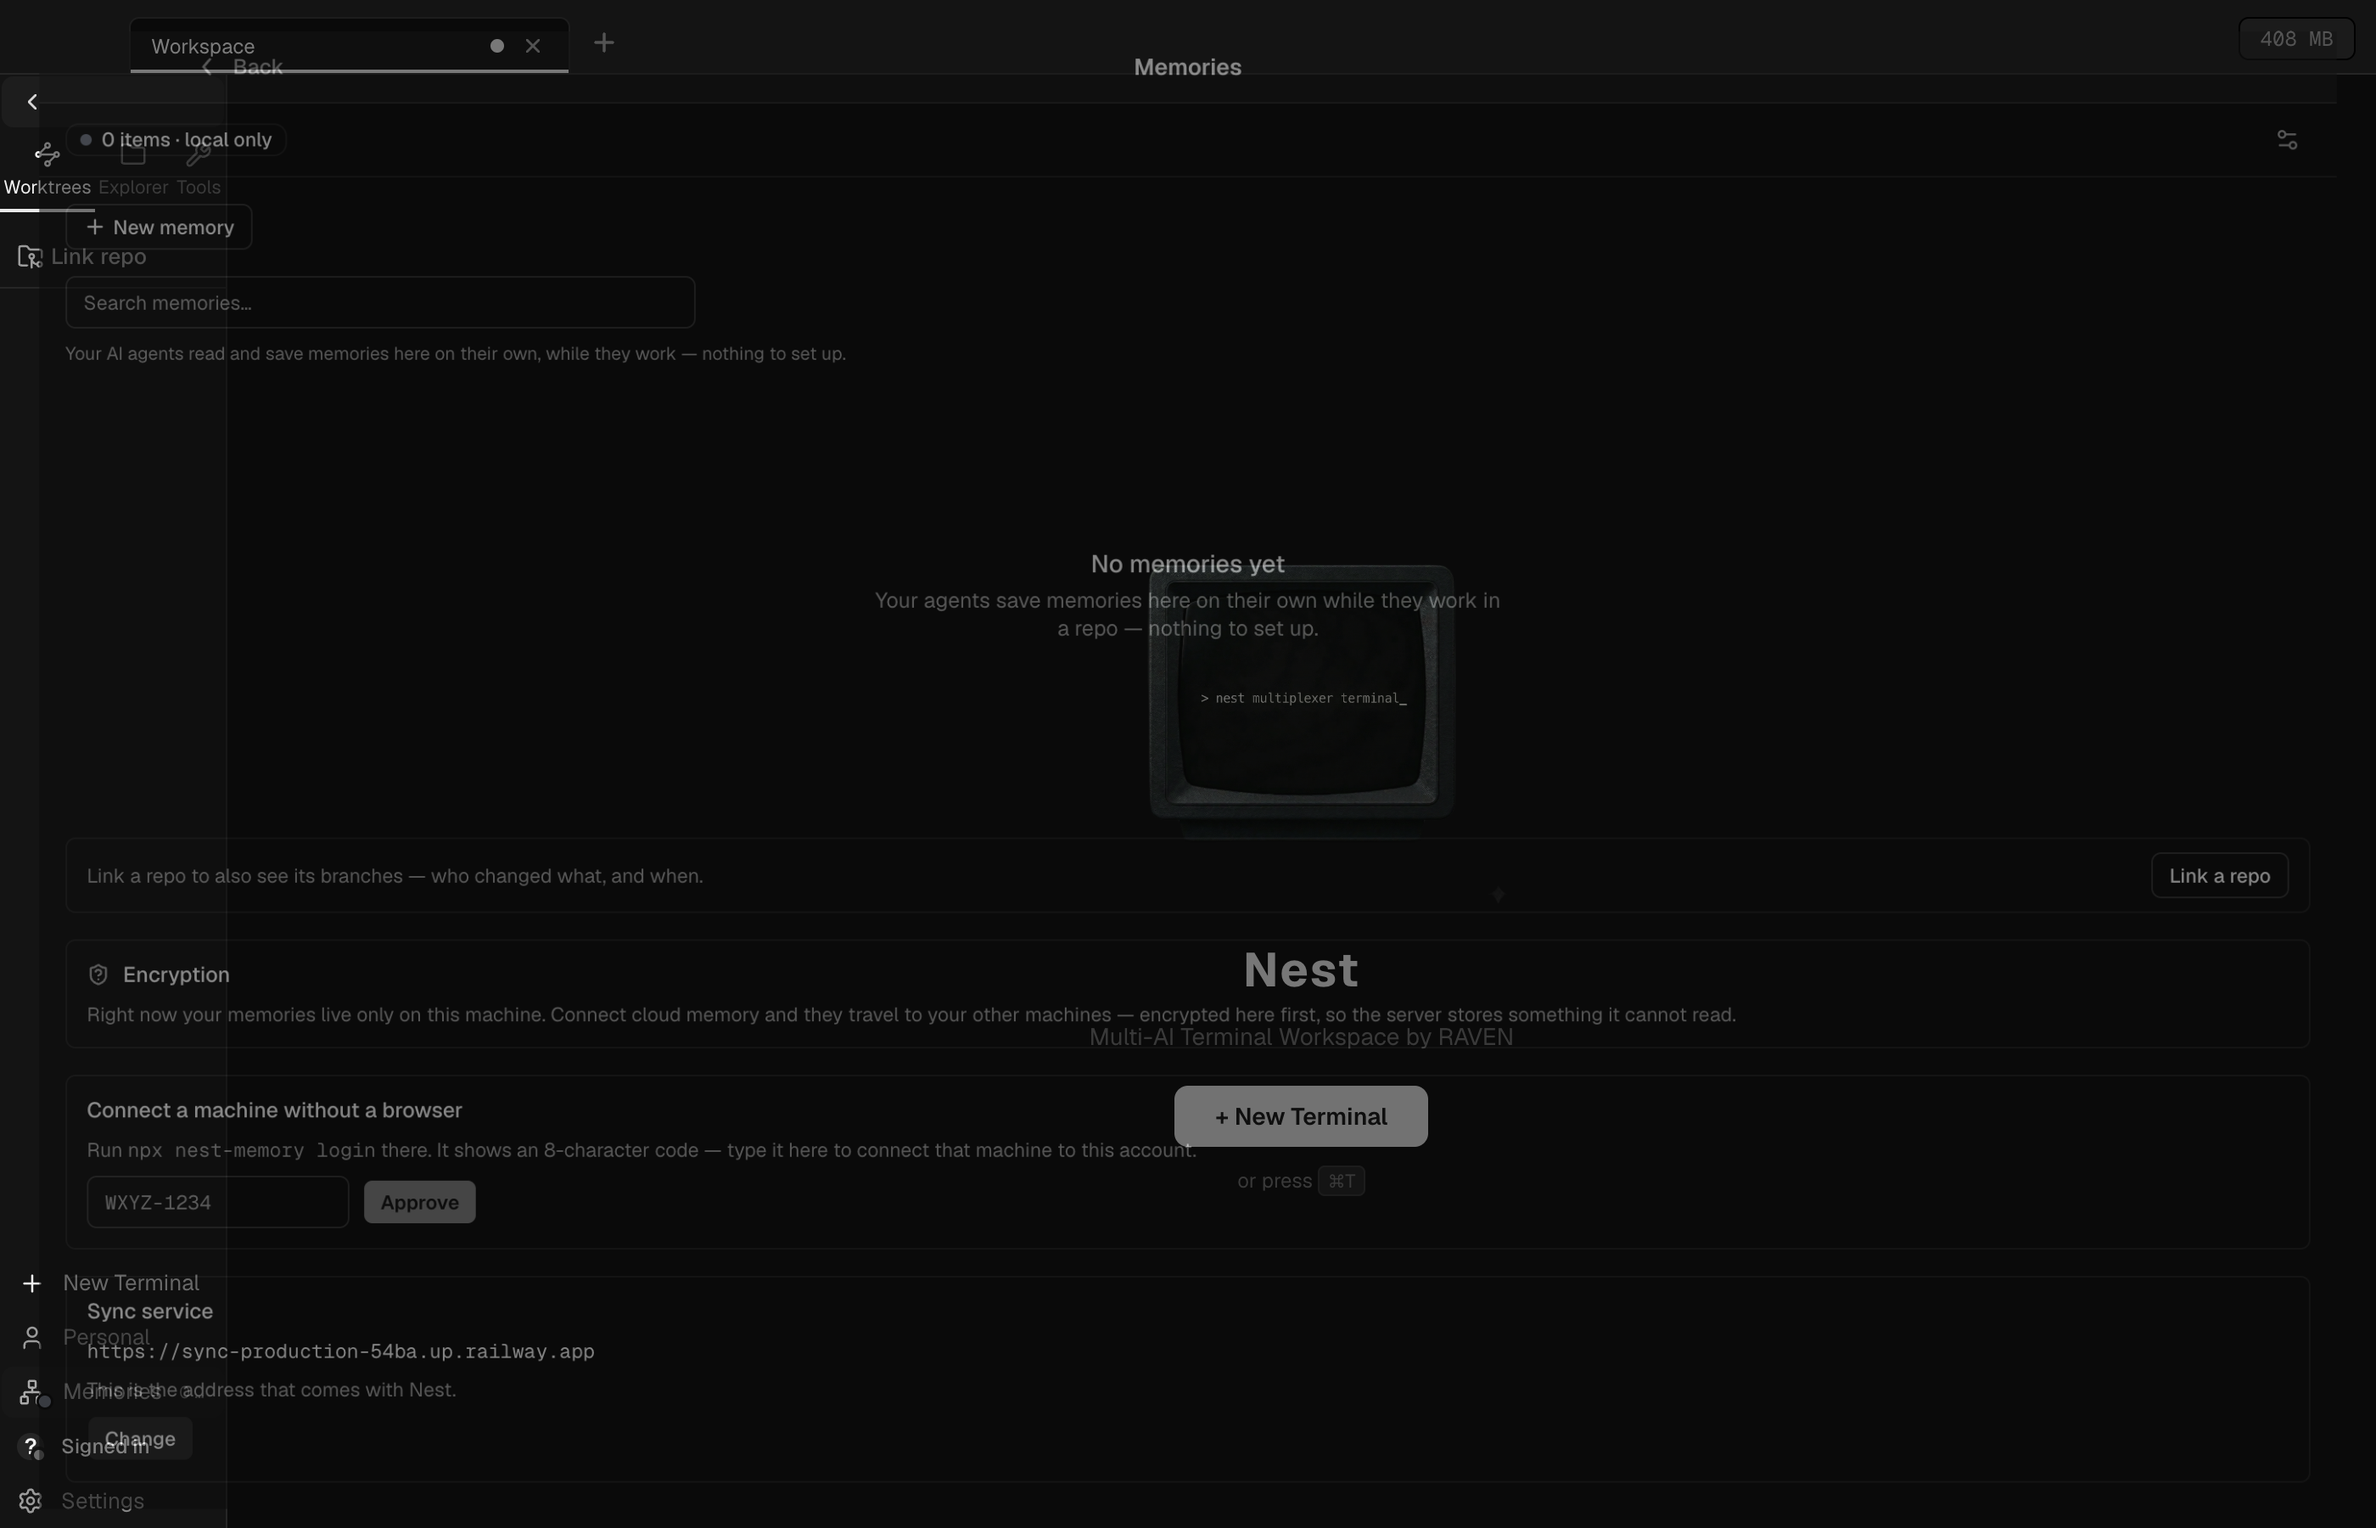
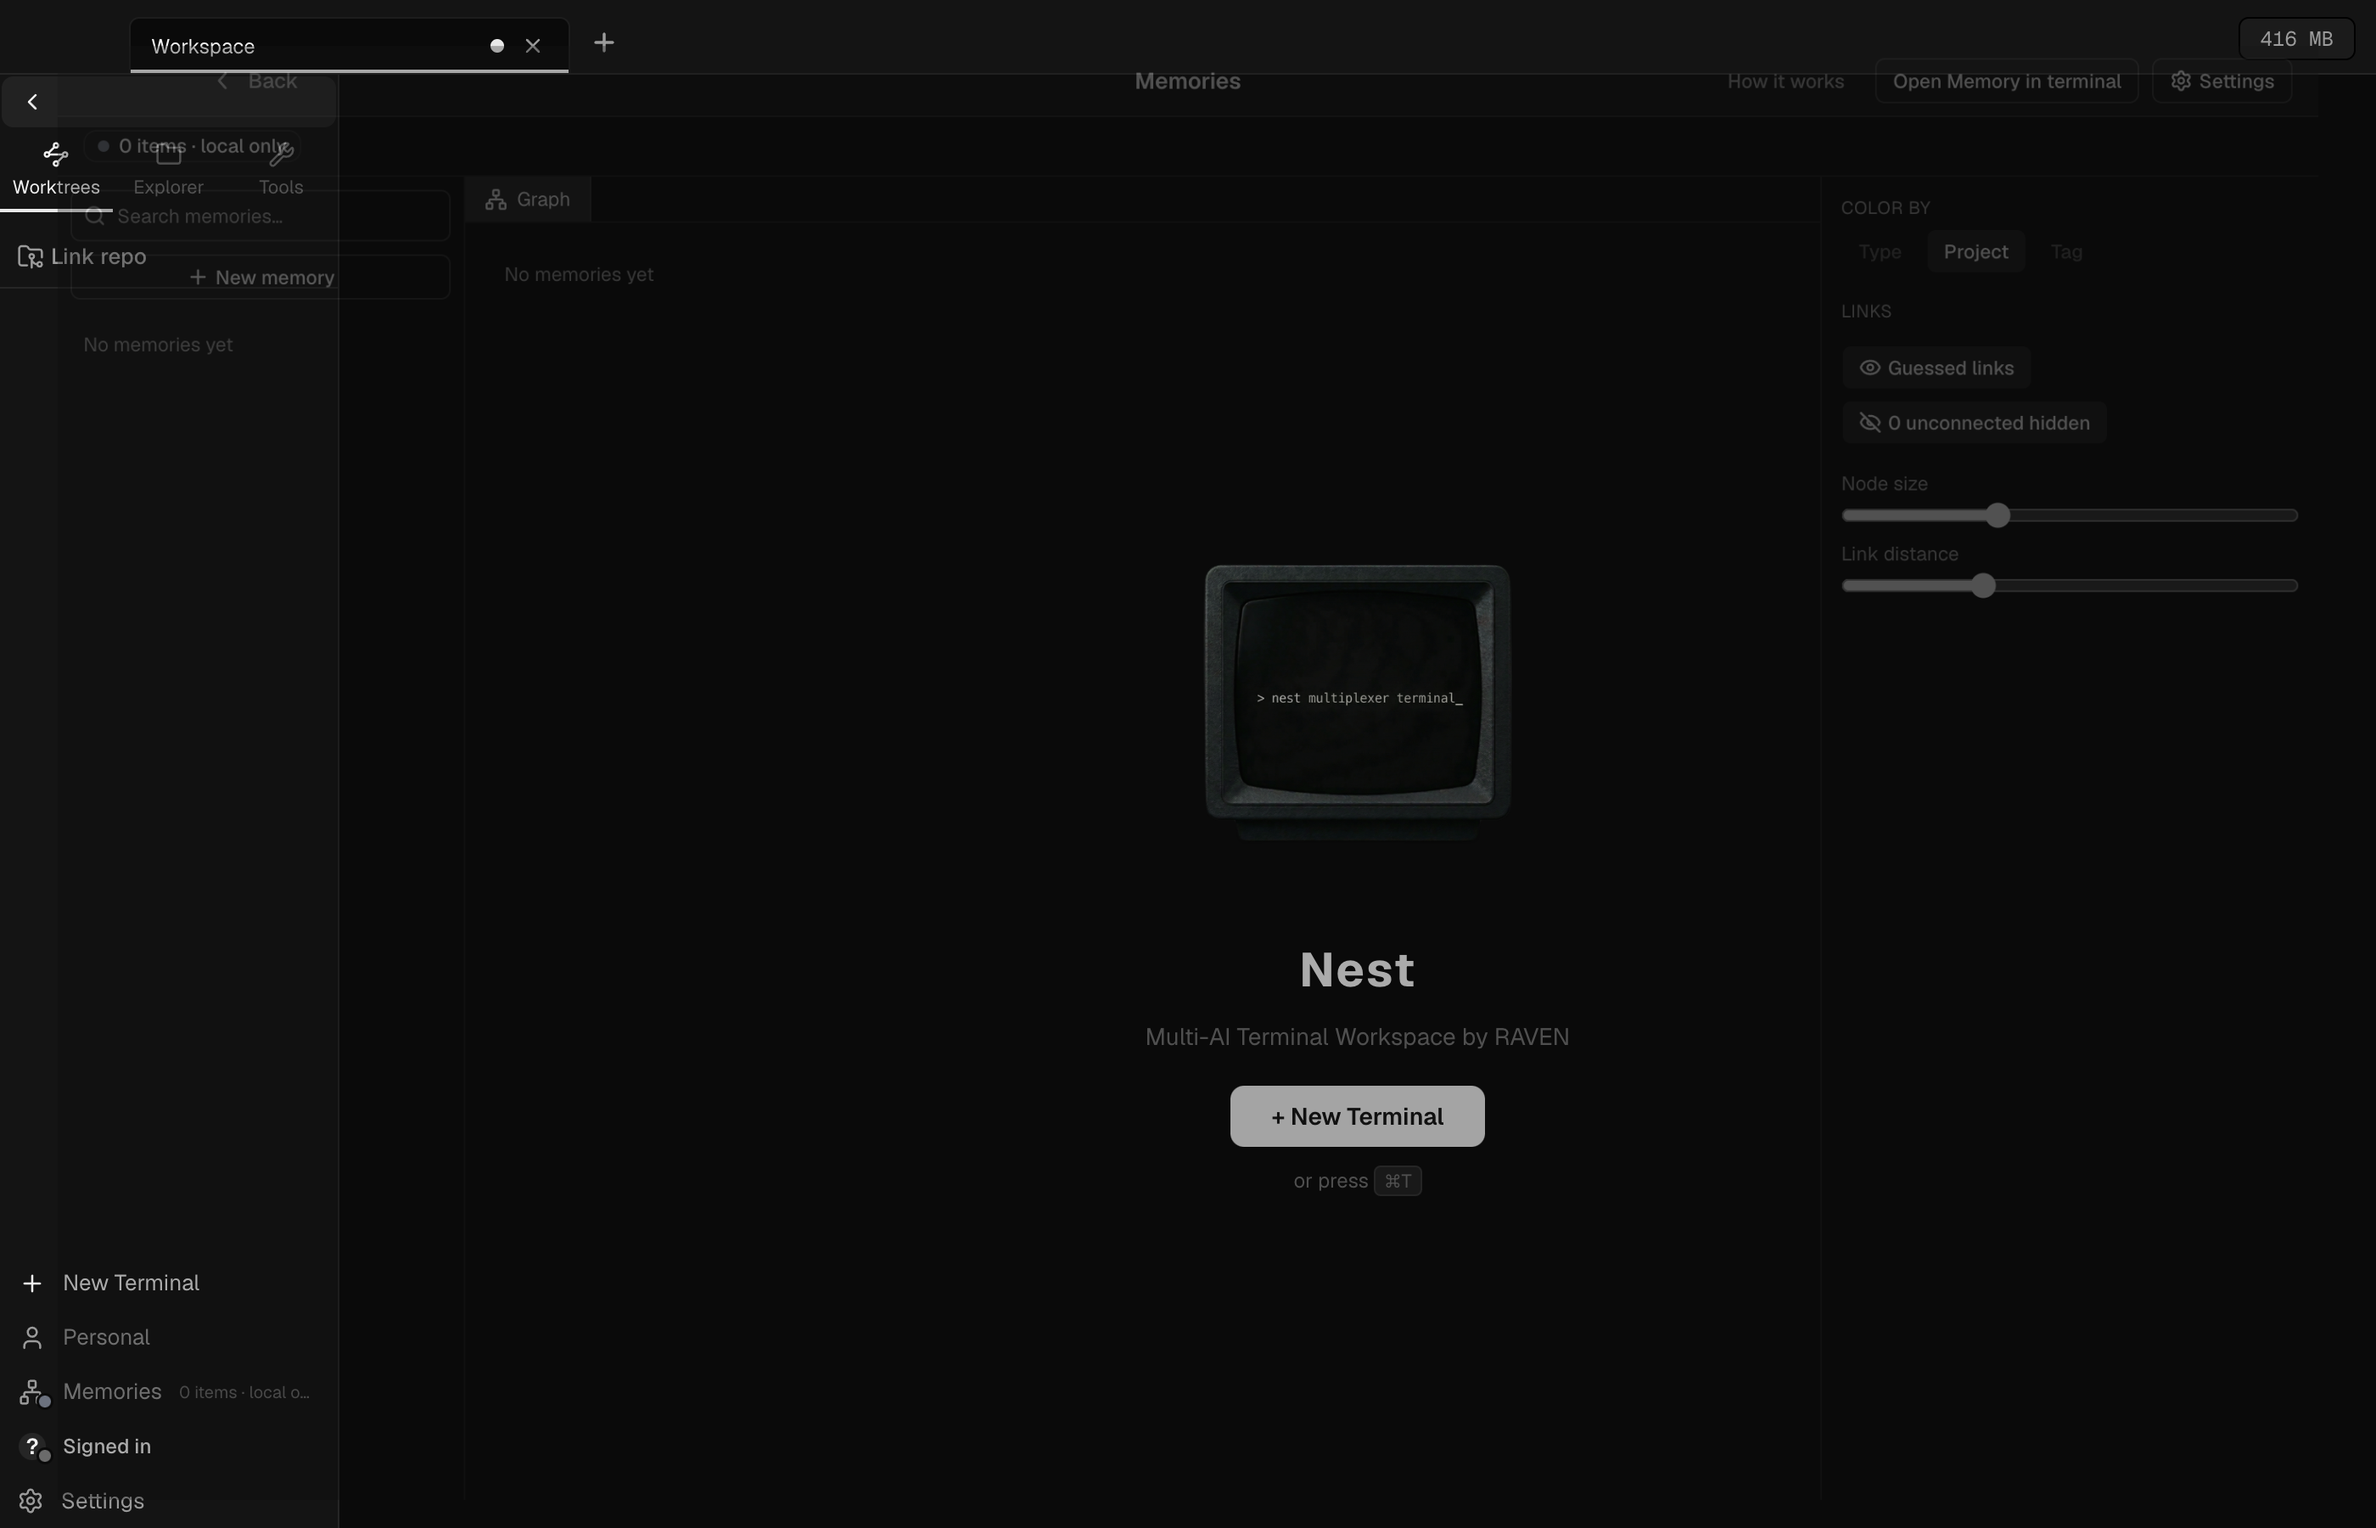
feat(memories): el grafo dibuja esferas con luz y sombra, y un nodo soltado vuelve a la física
Estilo B de los cuatro prototipos (elegido por Gero el 2026-11-12): degradé del color del
tipo, brillo especular y sombra en el piso; plano debajo de 3 px en pantalla. Las etiquetas
van debajo de la sombra con contorno del fondo. Al soltar un nodo ya no queda clavado.

diff --git a/src/components/memories/MemoryGraph2D.tsx b/src/components/memories/MemoryGraph2D.tsx
@@ -1,6 +1,8 @@
-// El grafo de Memories en 2D, como el de Obsidian: puntos chicos, líneas finas, etiquetas que
-// aparecen con el zoom y hover que deja a pleno sólo al nodo y sus vecinos. El mismo
-// componente dibuja el grafo global (pestaña Graph) y el local (panel derecho).
+// El grafo de Memories en 2D, como el de Obsidian: líneas finas, etiquetas horizontales que
+// aparecen con el zoom, nodos que se arrastran y vuelven a la física al soltarlos, y hover que
+// deja a pleno sólo al nodo y sus vecinos. Los nodos son esferas con luz y sombra (el estilo B
+// que eligió Gero el 2026-11-12 entre cuatro prototipos). El mismo componente dibuja el grafo
+// global (pestaña Graph) y el local (panel derecho).
 //
 // Presentación pura: no conoce `window.memory`.
 import { lazy, Suspense, useCallback, useEffect, useMemo, useRef, useState } from 'react'
@@ -40,23 +42,67 @@ function token(nombre: string, porDefecto: string): string {
  * es más visible, nunca invisible).
  */
 function conAlfa(color: string, alfa: number): string {
+  const c = rgbDe(color)
+  return c ? `rgba(${c.join(', ')}, ${alfa})` : color
+}
+
+/** `#rgb`, `#rrggbb` o `rgb()/rgba()` a sus tres canales; null para cualquier otra forma. */
+function rgbDe(color: string): [number, number, number] | null {
   const hex = /^#([0-9a-f]{3}|[0-9a-f]{6})$/i.exec(color)
   if (hex) {
     const h = hex[1].length === 3 ? hex[1].split('').map((c) => c + c).join('') : hex[1]
     const [r, g, b] = [0, 2, 4].map((i) => parseInt(h.slice(i, i + 2), 16))
-    return `rgba(${r}, ${g}, ${b}, ${alfa})`
+    return [r, g, b]
   }
   const rgb = /^rgba?\(([^)]+)\)$/i.exec(color)
   if (rgb) {
-    const partes = rgb[1].split(/[\s,/]+/).filter(Boolean).slice(0, 3)
-    if (partes.length === 3) return `rgba(${partes.join(', ')}, ${alfa})`
+    const partes = rgb[1].split(/[\s,/]+/).filter(Boolean).slice(0, 3).map(Number)
+    if (partes.length === 3 && partes.every((p) => Number.isFinite(p))) return partes as [number, number, number]
   }
-  return color
+  return null
 }
 
-/** El tamaño del punto en px de PANTALLA a zoom 1. Crece poco con el grado. */
+/** El color llevado hacia blanco (`k > 0`) o hacia negro (`k < 0`): la luz y la sombra de la esfera. */
+function tono(c: [number, number, number], k: number, alfa = 1): string {
+  const v = c.map((x) => Math.round(k >= 0 ? x + (255 - x) * k : x * (1 + k)))
+  return `rgba(${v.join(', ')}, ${alfa})`
+}
+
+/** Debajo de este radio en pantalla el volumen no se distingue: se pinta plano, que es más barato. */
+const RADIO_MINIMO_CON_VOLUMEN = 3
+
+/**
+ * Una esfera iluminada desde arriba a la izquierda: sombra en el piso, degradé del color del tipo
+ * (luz → color → sombra) y un brillo especular. `r` y `escala` en unidades del grafo, como el
+ * resto del canvas. Un color que no se sabe descomponer se pinta plano.
+ */
+function dibujarEsfera(ctx: CanvasRenderingContext2D, x: number, y: number, r: number, color: string, escala: number): void {
+  const c = rgbDe(color)
+  if (!c || r * escala < RADIO_MINIMO_CON_VOLUMEN) {
+    ctx.fillStyle = color
+    ctx.beginPath(); ctx.arc(x, y, r, 0, 2 * Math.PI); ctx.fill()
+    return
+  }
+  // Sombra y brillo salen del mismo color llevado a negro y a blanco: sin literales.
+  ctx.fillStyle = tono(c, -1, 0.32)
+  ctx.beginPath(); ctx.ellipse(x + r * 0.15, y + r * 1.05, r * 0.85, r * 0.28, 0, 0, 2 * Math.PI); ctx.fill()
+  const cuerpo = ctx.createRadialGradient(x - r * 0.35, y - r * 0.4, r * 0.1, x, y, r)
+  cuerpo.addColorStop(0, tono(c, 0.55))
+  cuerpo.addColorStop(0.45, tono(c, 0))
+  cuerpo.addColorStop(1, tono(c, -0.45))
+  ctx.fillStyle = cuerpo
+  ctx.beginPath(); ctx.arc(x, y, r, 0, 2 * Math.PI); ctx.fill()
+  const brillo = ctx.createRadialGradient(x - r * 0.38, y - r * 0.42, 0, x - r * 0.38, y - r * 0.42, r * 0.45)
+  brillo.addColorStop(0, tono(c, 1, 0.55))
+  brillo.addColorStop(1, tono(c, 1, 0))
+  ctx.fillStyle = brillo
+  ctx.beginPath(); ctx.arc(x, y, r, 0, 2 * Math.PI); ctx.fill()
+}
+
+/** El tamaño del nodo en px de PANTALLA a zoom 1. Crece poco con el grado. Más grande que un
+ *  punto plano: con menos de ~5 px la esfera no se lee como esfera. */
 function tamanoBase(n: Nodo, escalaDeNodo: number): number {
-  return (2 + Math.sqrt(n.degree + 1) * 0.9) * escalaDeNodo
+  return (3.5 + Math.sqrt(n.degree + 1) * 1.6) * escalaDeNodo
 }
 
 /**
@@ -212,8 +258,17 @@ export default function MemoryGraph2D({ data, foco = null, resaltados = null, mo
       lineaVecina: conAlfa(token('--foreground', '#f0f0f0'), 0.75),
       lineaAtenuada: conAlfa(tenue, 0.07),
       fuente: token('--font-ui', 'system-ui, sans-serif'),
+      fondo: token('--background', '#0a0a0a'),
     }
   }, [])
+  // El contorno de las etiquetas tiene que ser el color de lo que hay DETRÁS del canvas (que es
+  // transparente): el primer ancestro con fondo propio. Se lee al montar, cuando ya hay caja.
+  useEffect(() => {
+    for (let el = caja.current?.parentElement; el; el = el.parentElement) {
+      const bg = getComputedStyle(el).backgroundColor
+      if (bg && bg !== 'transparent' && !/rgba\([^)]*,\s*0\)$/.test(bg)) { colores.fondo = bg; return }
+    }
+  }, [colores])
 
   const tocaAlHover = (l: GraphLinkDatum) => idDe(l.source) === hover || idDe(l.target) === hover
 
@@ -251,7 +306,9 @@ export default function MemoryGraph2D({ data, foco = null, resaltados = null, mo
               if ((n as Nodo).pending) return
               onOpen((n as Nodo).id, { background: e.ctrlKey || e.metaKey })
             }}
-            onNodeDragEnd={(n) => { n.fx = n.x; n.fy = n.y }}
+            // Como en Obsidian: al soltarlo, el nodo vuelve a la física y se reacomoda con sus
+            // vecinos. La librería lo deja fijo donde se soltó; acá se lo libera.
+            onNodeDragEnd={(n) => { n.fx = undefined; n.fy = undefined }}
             // Hover: las aristas del nodo a pleno y las demás atenuadas, no ocultas.
             linkColor={(raw) => {
               const l = raw as GraphLinkDatum
@@ -263,12 +320,17 @@ export default function MemoryGraph2D({ data, foco = null, resaltados = null, mo
             nodeCanvasObject={(raw, ctx, escala) => {
               const n = raw as Nodo
               const r = radioDe(n, escalaDeNodo, escala, modo)
+              const [x, y] = [n.x ?? 0, n.y ?? 0]
               ctx.globalAlpha = opacidadDeNodo(n.id, hover, vecinosDelHover, resaltados)
-              ctx.beginPath()
-              ctx.arc(n.x ?? 0, n.y ?? 0, r, 0, 2 * Math.PI)
-              if (n.pending) { ctx.strokeStyle = colores.texto; ctx.lineWidth = 1 / escala; ctx.stroke() }
-              else { ctx.fillStyle = n.color; ctx.fill() }
+              if (n.pending) {
+                ctx.beginPath(); ctx.arc(x, y, r, 0, 2 * Math.PI)
+                ctx.strokeStyle = colores.texto; ctx.lineWidth = 1 / escala; ctx.stroke()
+              } else {
+                dibujarEsfera(ctx, x, y, r, n.color, escala)
+              }
               if (n.id === foco || n.id === hover) {
+                // Un anillo separado de la esfera: pegado al borde se confunde con el sombreado.
+                ctx.beginPath(); ctx.arc(x, y, r + 2.5 / escala, 0, 2 * Math.PI)
                 ctx.strokeStyle = colores.textoFuerte; ctx.lineWidth = 1.5 / escala; ctx.stroke()
               }
               const conEtiqueta = muestraEtiqueta({
@@ -277,11 +339,19 @@ export default function MemoryGraph2D({ data, foco = null, resaltados = null, mo
               if (conEtiqueta) {
                 const fs = 11 / escala
                 const max = MAX_LETRAS[modo]
+                const texto = n.label.length > max ? `${n.label.slice(0, max - 1)}…` : n.label
+                // Debajo de la sombra de la esfera, no encima.
+                const ty = y + r * 1.35 + 3 / escala
                 ctx.font = `${fs}px ${colores.fuente}`
                 ctx.textAlign = 'center'
                 ctx.textBaseline = 'top'
+                // Contorno del color del fondo: la etiqueta se lee aunque la cruce una línea.
+                ctx.lineJoin = 'round'
+                ctx.lineWidth = 3 / escala
+                ctx.strokeStyle = colores.fondo
+                ctx.strokeText(texto, x, ty)
                 ctx.fillStyle = n.id === hover || n.id === foco ? colores.textoFuerte : colores.texto
-                ctx.fillText(n.label.length > max ? `${n.label.slice(0, max - 1)}…` : n.label, n.x ?? 0, (n.y ?? 0) + r + 2 / escala)
+                ctx.fillText(texto, x, ty)
               }
               ctx.globalAlpha = 1
             }}

diff --git a/src/__tests__/components/MemoryGraph2D.test.tsx b/src/__tests__/components/MemoryGraph2D.test.tsx
@@ -5,9 +5,10 @@ import { render, screen, fireEvent } from '@testing-library/react'
 const distance = vi.fn()
 const reheat = vi.fn()
 const recibido: unknown[] = []
+const soltado: Array<Record<string, unknown>> = []
 
 vi.mock('react-force-graph-2d', () => ({
-  default: forwardRef(function FG({ graphData, onNodeClick }: { graphData: { nodes: Array<{ id: string; label: string }> }; onNodeClick: (n: { id: string }, e: MouseEvent) => void }, ref) {
+  default: forwardRef(function FG({ graphData, onNodeClick, onNodeDragEnd }: { graphData: { nodes: Array<{ id: string; label: string }> }; onNodeClick: (n: { id: string }, e: MouseEvent) => void; onNodeDragEnd?: (n: Record<string, unknown>) => void }, ref) {
     useImperativeHandle(ref, () => ({ d3Force: () => ({ distance }), d3ReheatSimulation: reheat }))
     recibido.push(graphData)
     return (
@@ -15,6 +16,12 @@ vi.mock('react-force-graph-2d', () => ({
         {graphData.nodes.map((n) => (
           <button key={n.id} type="button" onClick={(e) => onNodeClick(n, e.nativeEvent)}>{n.label}</button>
         ))}
+        <button type="button" onClick={() => {
+          // Lo que deja la librería al terminar un arrastre: el nodo fijo donde se soltó.
+          const n = { id: 'arrastrado', x: 10, y: 20, fx: 10, fy: 20 }
+          onNodeDragEnd?.(n)
+          soltado.push(n)
+        }}>soltar</button>
       </div>
     )
   }),
@@ -34,6 +41,14 @@ describe('MemoryGraph2D', () => {
     expect(onOpen).toHaveBeenLastCalledWith('a', { background: true })
     fireEvent.click(screen.getByRole('button', { name: 'hueco' }))
     expect(onOpen).toHaveBeenCalledTimes(2)
+  })
+
+  it('al soltar un nodo arrastrado vuelve a la física, no queda clavado (como en Obsidian)', async () => {
+    soltado.length = 0
+    render(<MemoryGraph2D modo="global" onOpen={vi.fn()} data={{ nodes: [nodo('a')], links: [], orphansHidden: 0 }} />)
+    fireEvent.click(await screen.findByRole('button', { name: 'soltar' }))
+    expect(soltado[0].fx).toBeUndefined()
+    expect(soltado[0].fy).toBeUndefined()
   })
 
   it('aplica la distancia de links al montar y al cambiarla, y recalienta', async () => {

diff --git a/src/__tests__/components/MemoryGraph2D-prefs.test.tsx b/src/__tests__/components/MemoryGraph2D-prefs.test.tsx
@@ -17,7 +17,11 @@ import MemoryGraph2D from '../../components/memories/MemoryGraph2D'
 
 const nodo = { id: 'a', label: 'Alfa', color: '#fff', val: 1, degree: 1, superseded: false, type: 'decision', projectKey: 'p', projectLabel: 'p', tags: [], gitBranch: null, pending: false, x: 0, y: 0 }
 const data = { nodes: [nodo], links: [], orphansHidden: 0 }
-const ctx = () => ({ beginPath: vi.fn(), arc: vi.fn(), fill: vi.fn(), stroke: vi.fn(), fillText: vi.fn(), globalAlpha: 1, fillStyle: '', strokeStyle: '', lineWidth: 0, font: '', textAlign: '', textBaseline: '' })
+const ctx = () => ({
+  beginPath: vi.fn(), arc: vi.fn(), ellipse: vi.fn(), fill: vi.fn(), stroke: vi.fn(), fillText: vi.fn(), strokeText: vi.fn(),
+  createRadialGradient: vi.fn(() => ({ addColorStop: vi.fn() })),
+  globalAlpha: 1, fillStyle: '', strokeStyle: '', lineWidth: 0, lineJoin: '', font: '', textAlign: '', textBaseline: '',
+})
 const ultima = () => recibidas[recibidas.length - 1]
 
 beforeEach(() => { recibidas.length = 0 })
